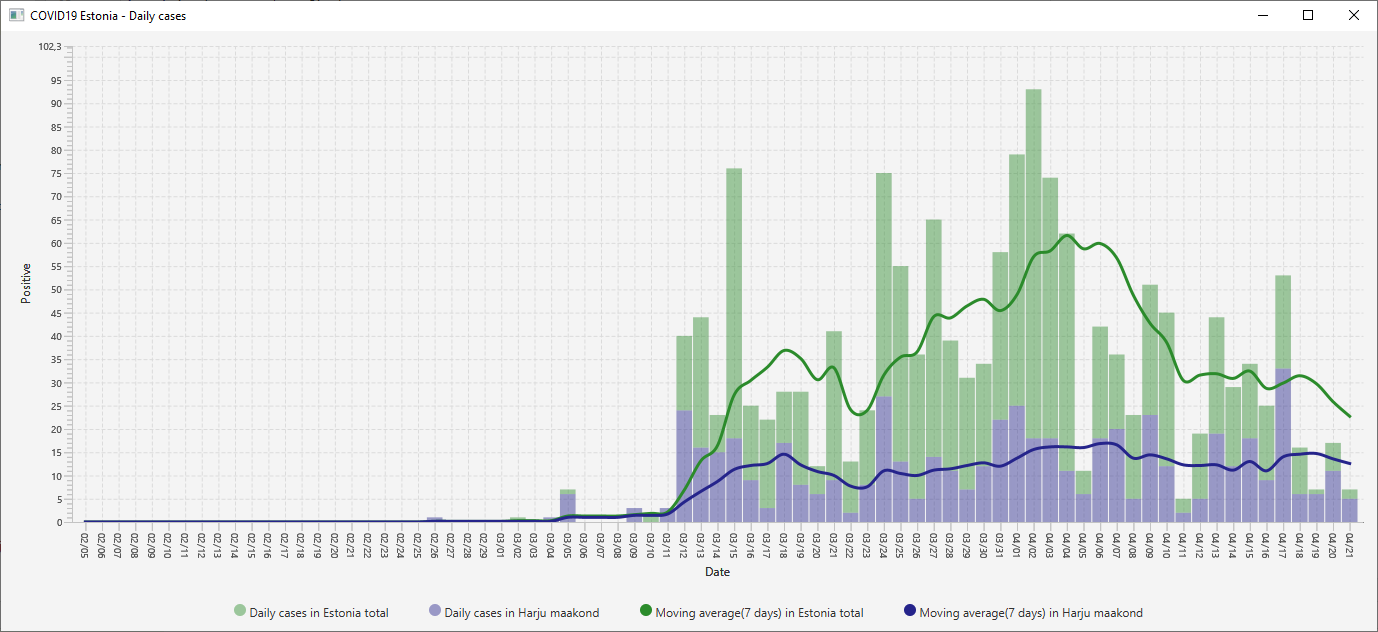
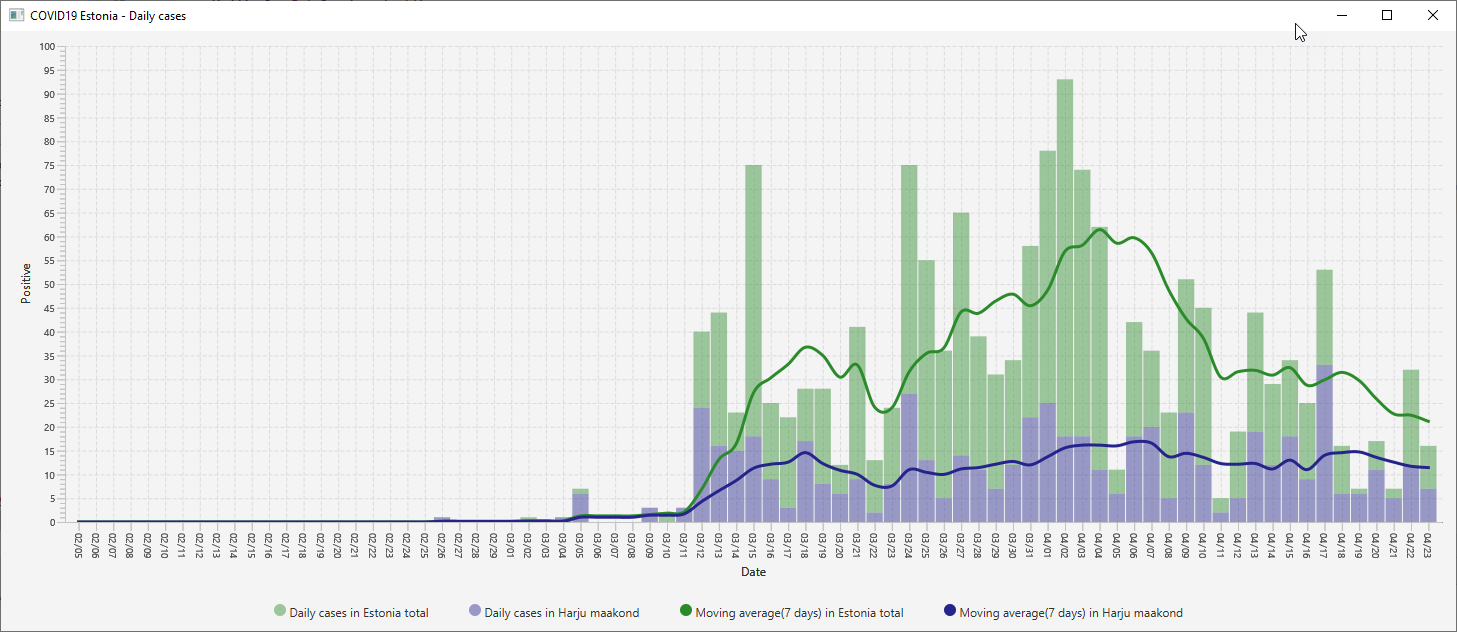
Active cases calculations

diff --git a/src/main/resources/style.css b/src/main/resources/style.css
@@ -54,6 +54,11 @@
   -fx-alignment: center;
 }
 
+.active-cases{
+  -fx-hgap: 20;
+  -fx-alignment: center;
+}
+
 .legend-item{
   -fx-padding: 10;
 }

diff --git a/src/main/java/Main.java b/src/main/java/Main.java
@@ -1,3 +1,4 @@
+import ee.smkv.covid19.estonia.ActiveCases;
 import ee.smkv.covid19.estonia.DigiliguOpenDataProvider;
 import ee.smkv.covid19.estonia.DigiliguOpenDataService;
 import ee.smkv.covid19.estonia.MovingAverage;
@@ -32,6 +33,7 @@ public class Main extends Application {
   private StackedBarChart<String, Number> dailyCasesBarChart;
   private SmoothedChart<String, Number> movingAverageSmoothLineChart;
   private BorderPane loadingPane;
+  private FlowPane activeCasesPane;
 
   public static void main(String[] args) {
     launch(args);
@@ -44,6 +46,8 @@ public class Main extends Application {
     dailyCasesBarChart = createDailyCasesBarChart();
     movingAverageSmoothLineChart = createMovingAverageSmoothLineChart();
     loadingPane = new BorderPane(new Label("Loading data, please wait...."));
+    activeCasesPane = new FlowPane(Orientation.HORIZONTAL);
+    activeCasesPane.getStyleClass().add("active-cases");
   }
 
   private Optional<File> getOfflineFile() {
@@ -56,6 +60,7 @@ public class Main extends Application {
   public void start(Stage stage) {
     stage.setTitle("COVID19 Estonia - Daily cases");
     BorderPane root = new BorderPane(new StackPane(dailyCasesBarChart, movingAverageSmoothLineChart, loadingPane));
+    root.setTop(activeCasesPane);
     root.setBottom(createCustomChartLegend());
     Scene scene = new Scene(root, 1200, 600);
     stage.setScene(scene);
@@ -71,8 +76,17 @@ public class Main extends Application {
     StatisticsByDate positiveInEstonia = statistics.getPositiveByDays();
     StatisticsByDate positiveInHarjuCounty = statistics.getPositiveByDays("Harju maakond");
     StatisticsByDate positiveExcludeHarjuCounty = statistics.getPositiveByDaysExclude("Harju maakond");
+    StatisticsByDate activeInEstonia = ActiveCases.calculate(positiveInEstonia, 14);
+    StatisticsByDate activeInHarjuCounty = ActiveCases.calculate(positiveInHarjuCounty, 14);
 
-    double max = positiveInEstonia.getMaxValue().doubleValue() * 1.10;
+    activeCasesPane.getChildren().setAll(
+      createActiveCasesInfo("Estonia", activeInEstonia),
+      createActiveCasesInfo("Harju maakond", activeInHarjuCounty),
+      new Label("[calculated based on 14 days for full recovery after infection confirmed]")
+    );
+
+    double max = positiveInEstonia.getMaxValue().doubleValue();
+    max = Math.round(max * 0.11) * 10;
     ((NumberAxis)movingAverageSmoothLineChart.getYAxis()).setUpperBound(max);
     ((NumberAxis)dailyCasesBarChart.getYAxis()).setUpperBound(max);
 
@@ -83,6 +97,12 @@ public class Main extends Application {
     movingAverageSmoothLineChart.getData().add(createSeries("Average in Harju maakond", MovingAverage.getMovingAverage(positiveInHarjuCounty, 7)));
 
     loadingPane.setVisible(false);
+  }
+
+  private Label createActiveCasesInfo(String county, StatisticsByDate activeByDate) {
+    Number activeCases = activeByDate.get(activeByDate.getMaxDate());
+    Number prevDay = activeByDate.get(activeByDate.getMaxDate().minusDays(1));
+    return new Label(String.format("Active cases in %s: %d (%s)", county, activeCases.longValue(), activeCases.longValue() > prevDay.longValue() ? "\u2191" : "\u2193"));
   }
 
   private Pane createCustomChartLegend() {

diff --git a/src/main/java/ee/smkv/covid19/estonia/Statistics.java b/src/main/java/ee/smkv/covid19/estonia/Statistics.java
@@ -16,17 +16,13 @@ public class Statistics {
   }
 
   public StatisticsByDate getPositiveByDays() {
-    TreeMap<LocalDate, Long> map = source.stream()
-                                         .filter(TestResult::isPositive)
-                                         .sorted(comparing(TestResult::getStatisticsDate))
-                                         .collect(groupingBy(TestResult::getStatisticsDate, TreeMap::new, counting()));
-    return new StatisticsByDate(fillMissingDates(map));
+    return getPositiveByDays(null);
   }
 
   public StatisticsByDate getPositiveByDays(String county) {
     TreeMap<LocalDate, Long> map = source.stream()
                                          .filter(TestResult::isPositive)
-                                         .filter(testResult -> county.equalsIgnoreCase(testResult.getCounty()))
+                                         .filter(testResult -> county == null || county.equalsIgnoreCase(testResult.getCounty()))
                                          .sorted(comparing(TestResult::getStatisticsDate))
                                          .collect(groupingBy(TestResult::getStatisticsDate, TreeMap::new, counting()));
     return new StatisticsByDate(fillMissingDates(map));

diff --git a/src/main/java/ee/smkv/covid19/estonia/StatisticsByDate.java b/src/main/java/ee/smkv/covid19/estonia/StatisticsByDate.java
@@ -27,6 +27,10 @@ public class StatisticsByDate {
     return max.isPresent() ? max.get() : Double.valueOf(0);
   }
 
+  public LocalDate getMaxDate(){
+    return data.lastKey();
+  }
+
   public boolean containsKey(LocalDate key) {
     return data.containsKey(key);
   }

diff --git a/README.md b/README.md
@@ -6,4 +6,4 @@ https://opendata.digilugu.ee/opendata_covid19_test_results.json
 
 Uses moving average to see trends.
 
-![Screenshot at 22 Apr 2020](https://github.com/smkv/korona-stat/raw/master/covid19.png)
+![Screenshot at 24 Apr 2020](https://github.com/smkv/korona-stat/raw/master/covid19.png)
